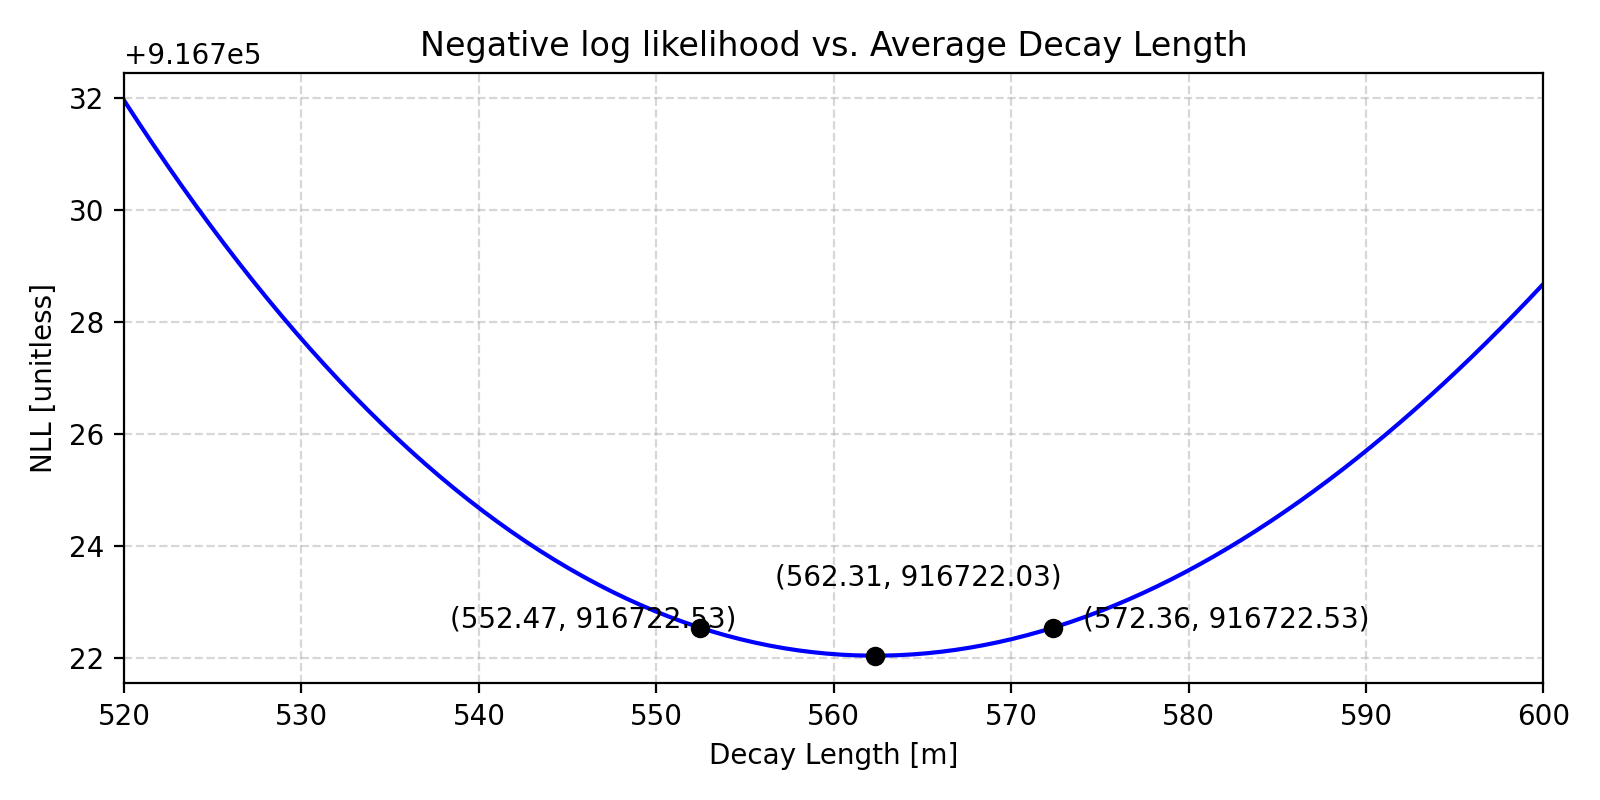
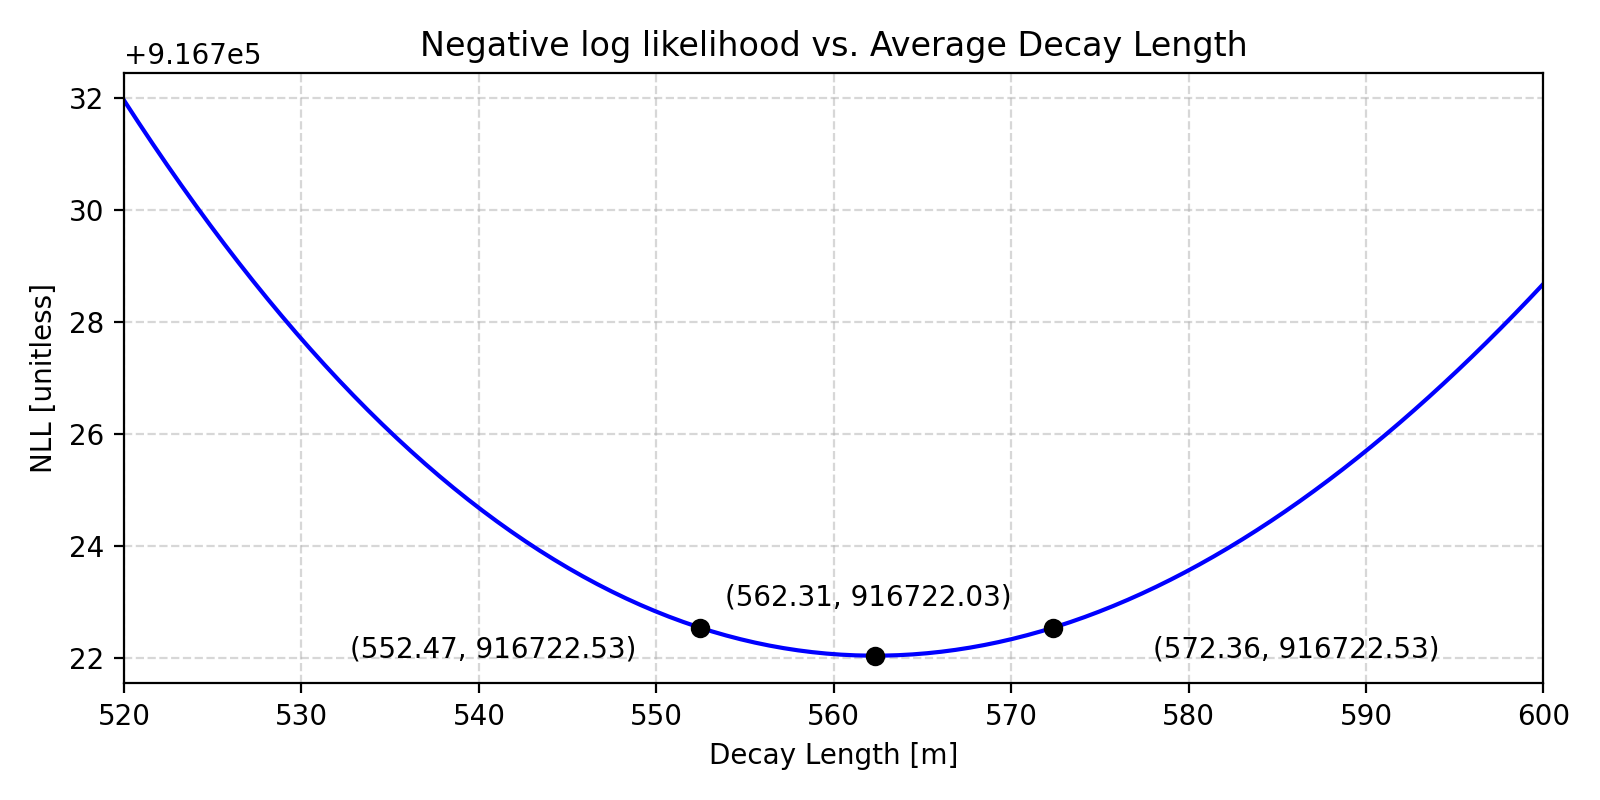
YOLO'd the NLL and it looked bad

Changed region(s): [[0.2188, 0.6875, 0.6562, 0.8438], [0.6875, 0.75, 0.9062, 0.8438]]

diff --git a/scripts/generate_plots.py b/scripts/generate_plots.py
@@ -52,11 +52,11 @@ def _plot_nll(cache: Cache):
     ax1.plot(cache.adl, nll_val, "ko")
     lower = cache.adl - cache.dlength_uncertainty[0]
     nll_val = nll(lower, data)
-    ax1.annotate(f"({lower:.2f}, {nll_val:.2f})", (lower, nll_val), (-300, -50), textcoords="offset pixels")
+    ax1.annotate(f"({lower:.2f}, {nll_val:.2f})", (lower, nll_val), (-350, -30), textcoords="offset pixels")
     ax1.plot(lower, nll_val, "ko")
     higher = cache.adl + cache.dlength_uncertainty[1]
     nll_val = nll(higher, data)
-    ax1.annotate(f"({higher:.2f}, {nll_val:.2f})", (higher, nll_val), (50, -50), textcoords="offset pixels")
+    ax1.annotate(f"({higher:.2f}, {nll_val:.2f})", (higher, nll_val), (100, -30), textcoords="offset pixels")
     ax1.plot(higher, nll_val, "ko")
 
     ax2.hist(data, bins=100, density=True)
